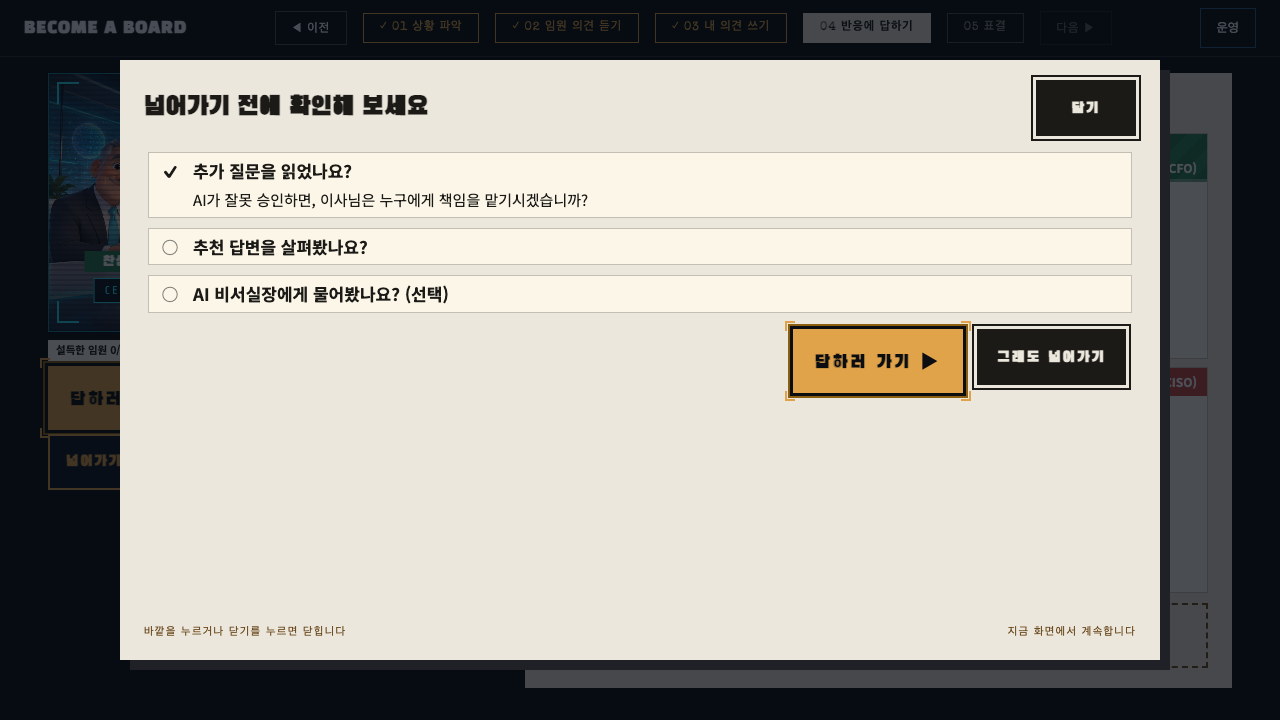
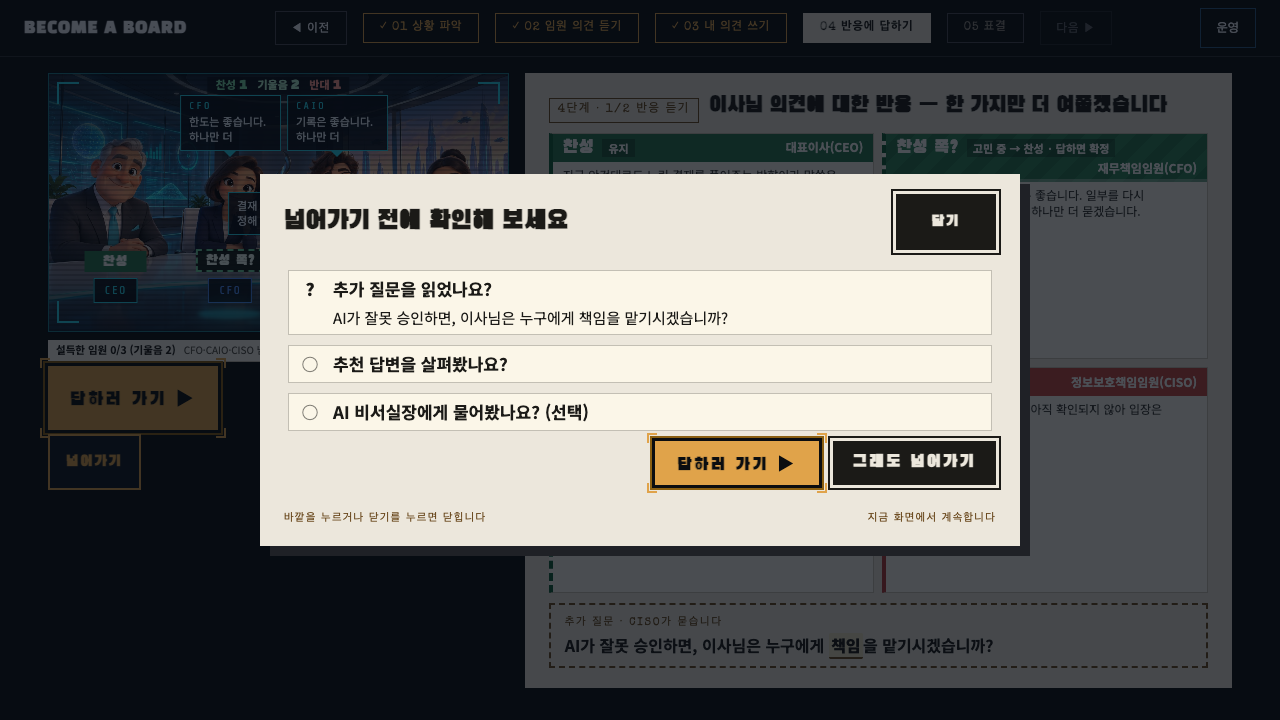
T142: 검토 반영 — 팝업 크기 맞춤·버튼 정렬·① 중립 표식·readOnly 넘어가기 숨김

diff --git a/src/components/screens/ReactionsScreen.tsx b/src/components/screens/ReactionsScreen.tsx
@@ -828,15 +828,17 @@ export function ReactionsScreen({
               임원 반응이 다 나오면 열립니다
             </span>
           )}
-          <button
-            type="button"
-            className="cta cta--secondary"
-            onClick={handleSkipClick}
-            data-testid="keep-previous-answer"
-            aria-label="답하지 않고 넘어가기"
-          >
-            넘어가기
-          </button>
+          {!readOnly && (
+            <button
+              type="button"
+              className="cta cta--secondary"
+              onClick={handleSkipClick}
+              data-testid="keep-previous-answer"
+              aria-label="답하지 않고 넘어가기"
+            >
+              넘어가기
+            </button>
+          )}
         </div>
         <div className="app-body__content screen reactions-screen__info" data-testid="reactions-info">
           <div className="reactions-screen__paper">
@@ -1028,16 +1030,18 @@ export function ReactionsScreen({
             onOpenChange={handleAssistantOpenChange}
             adapter={assistantAdapter}
           />
-          <button
-            type="button"
-            className="cta cta--secondary reactions-screen__keep-previous"
-            disabled={pendingOptionIndex !== null}
-            onClick={handleSkipClick}
-            data-testid="keep-previous-answer"
-            aria-label="답하지 않고 넘어가기"
-          >
-            넘어가기
-          </button>
+          {!readOnly && (
+            <button
+              type="button"
+              className="cta cta--secondary reactions-screen__keep-previous"
+              disabled={pendingOptionIndex !== null}
+              onClick={handleSkipClick}
+              data-testid="keep-previous-answer"
+              aria-label="답하지 않고 넘어가기"
+            >
+              넘어가기
+            </button>
+          )}
           <button
             type="button"
             className={canSubmit ? 'cta' : 'cta cta--outline'}

diff --git a/tests/components/ReactionsScreen.test.tsx b/tests/components/ReactionsScreen.test.tsx
@@ -1165,7 +1165,7 @@ describe('ReactionsScreen 입장 전환과 조건(T137)', () => {
 
 // T142: "넘어가기"는 바로 넘기지 않고 확인 팝업을 먼저 띄운다.
 describe('ReactionsScreen 넘어가기 확인 팝업(T142)', () => {
-  function renderSkip(step: 'listen' | 'answer', extra: { onKeepPrevious?: () => void; onAdvanceStep?: () => void } = {}) {
+  function renderSkip(step: 'listen' | 'answer', extra: { onKeepPrevious?: () => void; onAdvanceStep?: () => void; readOnly?: boolean } = {}) {
     return render(
       <ReactionsScreen
         {...baseProps()}
@@ -1188,6 +1188,7 @@ describe('ReactionsScreen 넘어가기 확인 팝업(T142)', () => {
     expect(screen.getByRole('dialog')).toHaveTextContent('넘어가기 전에 확인해 보세요');
     expect(screen.getByTestId('skip-check-list').querySelectorAll('li')).toHaveLength(3);
     expect(screen.getByTestId('skip-check-question-text').textContent).toBeTruthy();
+    expect(screen.getByTestId('skip-check-question')).toHaveAttribute('data-state', 'neutral');
     expect(screen.getByTestId('skip-check-options')).toHaveAttribute('data-state', 'todo');
     expect(screen.getByTestId('skip-check-assistant')).toHaveAttribute('data-state', 'todo');
   });
@@ -1219,6 +1220,14 @@ describe('ReactionsScreen 넘어가기 확인 팝업(T142)', () => {
     fireEvent.keyDown(document, { key: 'Escape' });
     expect(screen.queryByTestId('skip-check')).not.toBeInTheDocument();
     expect(kept).toBe(0);
+  });
+
+  it('지난 화면(readOnly)에서는 넘어가기 버튼이 없다 — 답을 바꿀 수 없다', () => {
+    renderSkip('listen', { readOnly: true });
+    expect(screen.queryByTestId('keep-previous-answer')).not.toBeInTheDocument();
+    cleanup();
+    renderSkip('answer', { readOnly: true });
+    expect(screen.queryByTestId('keep-previous-answer')).not.toBeInTheDocument();
   });
 
   it('팝업 어디에도 넘어간 뒤의 결과를 말하지 않는다', () => {

diff --git a/src/domain/skipCheck.ts b/src/domain/skipCheck.ts
@@ -4,6 +4,8 @@
 
 export type SkipCheckId = 'question' | 'options' | 'assistant';
 export type SkipCheckState = 'done' | 'todo';
+/** 상태가 없는 항목(① 질문)은 체크 표시 대신 중립 표식만 쓴다. */
+export type SkipCheckItemState = SkipCheckState | 'neutral';
 
 export interface SkipCheckInput {
   /** 이번 REACTIONS에서 2/2(다시 답하기) 화면에 들어간 적이 있는가. */
@@ -14,19 +16,19 @@ export interface SkipCheckInput {
 
 export interface SkipCheckItem {
   id: SkipCheckId;
-  state: SkipCheckState;
+  state: SkipCheckItemState;
   /** 선택 항목은 안 해도 넘어갈 수 있다. */
   optional: boolean;
 }
 
 /**
- * ① 추가 질문은 1/2·2/2 모두 화면 위에 그대로 있으므로 이 팝업이 뜬 시점에는 읽을 수 있는 상태이고 늘 완료다.
+ * ① 추가 질문은 읽었는지 화면이 알 수 없으므로 ✓/○ 없이 중립 표식('neutral')과 질문 원문만 보여 준다.
  * ② 추천 답변은 2/2 화면에서만 보이므로 들어간 적이 있어야 완료다.
  * ③ AI 비서실장은 선택이다.
  */
 export function skipChecklist(input: SkipCheckInput): SkipCheckItem[] {
   return [
-    { id: 'question', state: 'done', optional: false },
+    { id: 'question', state: 'neutral', optional: false },
     { id: 'options', state: input.answerVisited ? 'done' : 'todo', optional: false },
     { id: 'assistant', state: input.assistantUsed ? 'done' : 'todo', optional: true },
   ];

diff --git a/tests/content/skipCheck.test.ts b/tests/content/skipCheck.test.ts
@@ -1,0 +1,36 @@
+import { createElement } from 'react';
+import { afterEach, describe, expect, it } from 'vitest';
+import { cleanup, render } from '@testing-library/react';
+import { SKIP_CHECK_COPY } from '../../src/content/skipCheck';
+import { SkipCheckDialog } from '../../src/components/parts/SkipCheckDialog';
+
+afterEach(() => {
+  cleanup();
+});
+
+// 넘어간 뒤의 결과를 미리 알려 주는 말은 팝업 어디에도 쓰지 않는다(T142).
+const RESULT_PREVIEW = /원래 입장|돌아갑|유지|입장이|표결|반영|편에/;
+
+describe('SKIP_CHECK_COPY 결과 예고 금지(T142)', () => {
+  it('문구 상수에 결과 예고 표현이 없다', () => {
+    expect(JSON.stringify(SKIP_CHECK_COPY)).not.toMatch(RESULT_PREVIEW);
+  });
+
+  it('렌더된 팝업 글에도 결과 예고 표현이 없다(비활성 안내 포함)', () => {
+    for (const answerDisabled of [false, true]) {
+      const { unmount } = render(
+        createElement(SkipCheckDialog, {
+          question: '질문 예시입니다',
+          answerVisited: false,
+          assistantUsed: false,
+          answerDisabled,
+          onAnswer: () => {},
+          onSkip: () => {},
+          onClose: () => {},
+        }),
+      );
+      expect(document.body.textContent ?? '').not.toMatch(RESULT_PREVIEW);
+      unmount();
+    }
+  });
+});

diff --git a/src/components/parts/DialogShell.tsx b/src/components/parts/DialogShell.tsx
@@ -25,6 +25,8 @@ export interface DialogShellProps {
   closeTestId: string;
   /** 하단 안내 두 줄. 기본값은 EvidenceDialog와 같다. */
   footerHint?: readonly [string, string];
+  /** 내용 높이에 맞추는 작은 팝업(고정 높이 대신 height:auto). 기본은 끔 — 다른 팝업은 그대로. */
+  fit?: boolean;
   children: ReactNode;
 }
 
@@ -37,6 +39,7 @@ export function DialogShell({
   onClose,
   closeTestId,
   footerHint = ['바깥을 누르거나 닫기를 누르면 닫힙니다', '열린 동안 뒤 화면은 멈춤'],
+  fit = false,
   children,
 }: DialogShellProps) {
   const dialogRef = useRef<HTMLDivElement>(null);
@@ -103,7 +106,7 @@ export function DialogShell({
   return (
     <div className="dialog-shell__backdrop" data-testid={`${testId}-backdrop`} onClick={handleBackdropClick}>
       <div
-        className="dialog-shell"
+        className={fit ? 'dialog-shell dialog-shell--fit' : 'dialog-shell'}
         role="dialog"
         aria-modal="true"
         aria-labelledby={titleId}

diff --git a/tests/components/AssistantPanel.test.tsx b/tests/components/AssistantPanel.test.tsx
@@ -153,6 +153,15 @@ describe('AssistantPanel 필수 사용 소개(T97)', () => {
     expect(screen.getByTestId('assistant-intro-done')).toBeInTheDocument();
   });
 
+  it('requiredFeatures 없이도(REACTIONS 2/2) ①②③ 번호 버튼은 있고 추천 순서 줄은 없다(T141)', () => {
+    render(<AssistantPanel {...base()} />);
+    fireEvent.click(screen.getByTestId('assistant-toggle'));
+    expect(screen.getByRole('button', { name: /^① 의견 한눈에 보기/ })).toBeEnabled();
+    expect(screen.getByRole('button', { name: /^② 조건 추천/ })).toBeEnabled();
+    expect(screen.getByRole('button', { name: /^③ / })).toBeEnabled();
+    expect(screen.queryByTestId('assistant-intro-order')).not.toBeInTheDocument();
+  });
+
   it('버튼 이름에 ①②③이 들어가고 추천 순서 한 줄이 있으며 버튼은 모두 눌린다(T141)', () => {
     render(<AssistantPanel {...base()} requiredFeatures={{ used: new Set() }} />);
     fireEvent.click(screen.getByTestId('assistant-toggle'));

diff --git a/src/components/parts/SkipCheckDialog.tsx b/src/components/parts/SkipCheckDialog.tsx
@@ -35,6 +35,7 @@ export function SkipCheckDialog({
       onClose={onClose}
       closeTestId="skip-check-close"
       footerHint={copy.footerHint}
+      fit
     >
       <ol className="skip-check__list" data-testid="skip-check-list">
         {skipChecklist({ answerVisited, assistantUsed }).map(({ id, state }) => (
@@ -60,10 +61,16 @@ export function SkipCheckDialog({
           className="cta"
           onClick={onAnswer}
           disabled={answerDisabled}
+          aria-describedby={answerDisabled ? 'skip-check-answer-why' : undefined}
           data-testid="skip-check-answer"
         >
           {copy.answerLabel}
         </button>
+        {answerDisabled && (
+          <span id="skip-check-answer-why" className="sr-only">
+            {copy.advanceWhy}
+          </span>
+        )}
         <button type="button" className="cta cta--secondary" onClick={onSkip} data-testid="skip-check-skip">
           {copy.skipLabel}
         </button>

diff --git a/tests/domain/skipCheck.test.ts b/tests/domain/skipCheck.test.ts
@@ -13,8 +13,15 @@ describe('skipChecklist(T142)', () => {
   });
 
   it('2/2에 들어간 적이 있어야 추천 답변이 완료다', () => {
-    expect(states({ answerVisited: false, assistantUsed: false })).toEqual({ question: 'done', options: 'todo', assistant: 'todo' });
+    expect(states({ answerVisited: false, assistantUsed: false })).toEqual({ question: 'neutral', options: 'todo', assistant: 'todo' });
     expect(states({ answerVisited: true, assistantUsed: false }).options).toBe('done');
+  });
+
+  it('① 질문은 어떤 입력에서도 ✓/○ 없는 중립 표식이다', () => {
+    for (const answerVisited of [false, true]) {
+      expect(states({ answerVisited, assistantUsed: answerVisited }).question).toBe('neutral');
+    }
+    expect(SKIP_CHECK_COPY.stateMark.neutral).toBe('?');
   });
 
   it('비서실장을 썼으면 완료다', () => {

diff --git a/src/styles/screens/dialogShell.css b/src/styles/screens/dialogShell.css
@@ -47,6 +47,28 @@
   }
 }
 
+/* 내용 높이에 맞추는 변형(T142 넘어가기 확인). 폭도 줄인다. 아래 미디어 블록보다 뒤에 둬 우선한다. */
+.dialog-shell.dialog-shell--fit {
+  width: min(880px, 94vw);
+  height: auto;
+  max-height: 90vh;
+}
+
+.dialog-shell--fit .dialog-shell__body {
+  flex: 0 1 auto;
+  /* overflow:auto 본문이 버튼 그림자·포커스 링을 자르지 않게 안쪽 여백을 주고 바깥 여백으로 상쇄한다. */
+  margin: 0 -12px;
+  padding: 4px 12px 14px;
+}
+
+@media (max-width: 1280px) {
+  .dialog-shell.dialog-shell--fit {
+    width: min(760px, 94vw);
+    height: auto;
+    max-height: 90vh;
+  }
+}
+
 @keyframes dialog-shell-enter {
   from {
     opacity: 0;

diff --git a/src/styles/screens/reactions.css b/src/styles/screens/reactions.css
@@ -398,10 +398,15 @@
 .skip-check__actions {
   display: flex;
   gap: 14px;
+  align-items: center;
   justify-content: flex-end;
   margin-top: 18px;
-  /* 버튼 그림자·이중 테두리가 본문 영역 가장자리에서 잘리지 않게 여백을 둔다. */
-  padding: 6px 10px 8px;
+}
+
+/* 두 버튼은 크기·글자 크기가 같고 색으로만 주(主)를 구분한다. */
+.skip-check__actions .cta {
+  min-height: 52px;
+  font-size: 20px;
 }
 
 @media (max-width: 1280px), (max-height: 900px) {
@@ -416,5 +421,10 @@
 
   .skip-check__actions {
     margin-top: 10px;
+  }
+
+  .skip-check__actions .cta {
+    min-height: 44px;
+    font-size: 17px;
   }
 }

diff --git a/src/content/skipCheck.ts b/src/content/skipCheck.ts
@@ -8,9 +8,10 @@ export const SKIP_CHECK_COPY = {
     options: '추천 답변을 살펴봤나요?',
     assistant: 'AI 비서실장에게 물어봤나요? (선택)',
   },
-  stateMark: { done: '✓', todo: '○' },
-  stateText: { done: '완료', todo: '아직' },
+  stateMark: { neutral: '?', done: '✓', todo: '○' },
+  stateText: { neutral: '', done: '완료', todo: '아직' },
   answerLabel: '답하러 가기 ▶',
   skipLabel: '그래도 넘어가기',
+  advanceWhy: '임원 반응이 다 나오면 열립니다',
   footerHint: ['바깥을 누르거나 닫기를 누르면 닫힙니다', '지금 화면에서 계속합니다'],
 } as const;

diff --git a/docs/design/DESIGN_SPEC.md b/docs/design/DESIGN_SPEC.md
@@ -1350,8 +1350,10 @@ MOTION·다시 답하기(REACTIONS 2/2)·ATTRACT·INTRO·SELECT에는 안내가 
 ## T142 넘어가기 전 확인 체크리스트 (2026-10-18)
 
 - 사용자 지시(2026-10-17): "넘어가면 어떻게 될지 미리 결과를 알 수 있어 별로인 거 같다. 차라리 넘어가기 전에 체크리스트를 띄워 주는 게 좋겠다." REACTIONS 1/2·2/2의 "넘어가기"는 바로 넘기지 않고 DialogShell 팝업(role=dialog, `skip-check`)을 먼저 연다. **팝업·버튼 어디에도 넘어간 뒤 임원 입장이 어떻게 되는지는 쓰지 않는다**(INTRO 팁 문구는 그대로).
-- 제목 "넘어가기 전에 확인해 보세요". 체크 3줄(화면 상태로 자동 표시, 참가자가 누르는 체크박스 아님): ① "추가 질문을 읽었나요?" + 질문 원문 한 줄(질문은 1/2·2/2 모두 화면에 있어 늘 ✓) ② "추천 답변을 살펴봤나요?"(이번 REACTIONS에서 2/2에 들어간 적이 있으면 ✓) ③ "AI 비서실장에게 물어봤나요? (선택)"(이번 단계에서 결과·실패 안내를 받았으면 ✓). 판정은 `domain/skipCheck.ts` `skipChecklist`, 문구는 `content/skipCheck.ts`.
+- 제목 "넘어가기 전에 확인해 보세요". 체크 3줄(화면 상태로 자동 표시, 참가자가 누르는 체크박스 아님): ① "추가 질문을 읽었나요?" + 질문 원문 한 줄(읽었는지 화면이 알 수 없으므로 ✓/○ 없이 중립 "?" 표식만, `state: 'neutral'`) ② "추천 답변을 살펴봤나요?"(이번 REACTIONS에서 2/2에 들어간 적이 있으면 ✓) ③ "AI 비서실장에게 물어봤나요? (선택)"(이번 단계에서 결과·실패 안내를 받았으면 ✓). 판정은 `domain/skipCheck.ts` `skipChecklist`, 문구는 `content/skipCheck.ts`.
 - 버튼: 주 "답하러 가기 ▶"(1/2는 2/2로 이동, 2/2는 팝업만 닫음. live 반응 대기 중 1/2에서는 비활성), 보조 "그래도 넘어가기"(기존 `handleKeepPrevious` 그대로, T110 표결 효과 변경 없음). Esc·바깥 클릭·닫기는 팝업만 닫는다. RebuildConfirm이 떠 있는 동안 "넘어가기"가 막히는 규칙(PR #12 Codex 5차)은 그대로다.
 - 팝업이 열린 동안 코치·안내 아이콘·다음 할 일 점선은 `useDialogOpen`으로 숨는다.
+- 크기: DialogShell `fit` 변형(`dialog-shell--fit`, height auto·max-height 90vh·폭 min(880px, 94vw), 1280px 이하 760px)으로 내용만큼만 차지한다. 이 팝업만 쓴다. 두 버튼은 가운데 정렬·같은 높이·같은 글자 크기(주 버튼은 색으로만 구분). 주 버튼이 비활성(live 반응 대기)이면 `aria-describedby`로 "임원 반응이 다 나오면 열립니다"(sr-only)를 가리킨다.
+- 지난 화면(◀ 이전, `readOnly`)에서는 "넘어가기" 자체를 그리지 않는다(답을 바꿀 수 없고, 마운트 때 방문 기록이 초기화되므로).
 - 테스트: `tests/domain/skipCheck.test.ts`, `tests/components/ReactionsScreen.test.tsx`(T142), e2e `reactions`·`coach` + 넘어가기 경로를 쓰는 spec은 "넘어가기 → 그래도 넘어가기"로 갱신, 스크린샷 `reactions-skip-check`.
 
